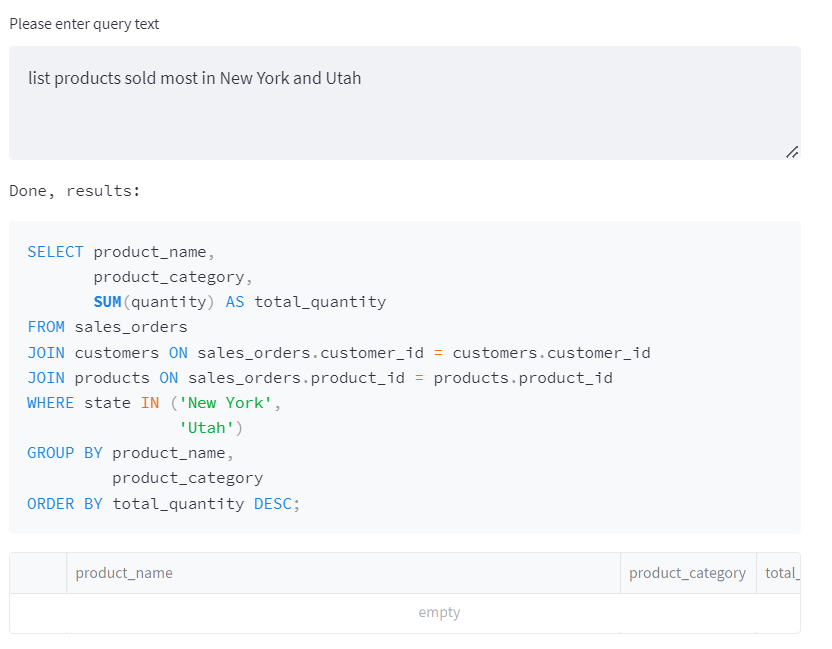
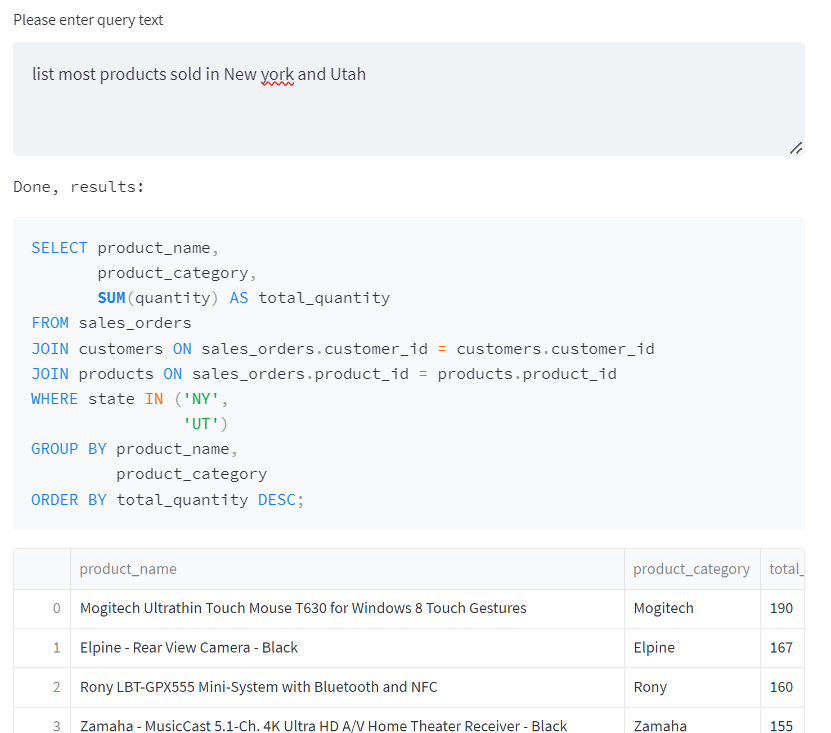
Updated and added new sample queries

diff --git a/README.md b/README.md
@@ -3,7 +3,7 @@
 ## Design
 
 ### API app
-Design of the App shown in Figure 1. At the core, there is an Azure durable orchestrator function which runs as set of activity functions using [function chaining pattern](https://learn.microsoft.com/en-us/azure/azure-functions/durable/durable-functions-overview?tabs=csharp-inproc#chaining) to translate the natural language query to SQL using OpenAI Codex model and execute it on Postgres SQL database tables and upload the results to Azure Blob Storage. It then returns the generated SQL and a SAS URL of the output file to the caller. 
+Design of the App shown in Figure 1. At the core, there is an Azure durable orchestrator function which runs as set of activity functions using [function chaining pattern](https://learn.microsoft.com/en-us/azure/azure-functions/durable/durable-functions-overview?tabs-csharp-inproc#chaining) to translate the natural language query to SQL using OpenAI Codex model and execute it on Postgres SQL database tables and upload the results to Azure Blob Storage. It then returns the generated SQL and a SAS URL of the output file to the caller. 
 
 ![Figure 1](https://github.com/bablulawrence/openai-sql/raw/main/docs/openai_sql.svg)
 
@@ -77,7 +77,7 @@ Go to azure portal, locate PostgreSQL server resource and make following changes
 ```
 3. Restore the backup file to the database
 ```sh
-    pg_restore -v --no-owner --host=az-postgres-server-<suffix>.postgres.database.azure.com --port=5432 --username=pgadmin123 --dbname=retail_org retail_org.dump
+    pg_restore -v --no-owner --host-az-postgres-server-<suffix>.postgres.database.azure.com --port-5432 --username-pgadmin123 --dbname-retail_org retail_org.dump
 ```
 
 ### Deploy azure function code
@@ -100,7 +100,7 @@ Go to the 'Actions' tab of the repo and exectue the Git hub action `Deploy code 
 You can query the database by directly invoking the orchastrator function `fn-drbl-orch-openai-sql` through azure function runtime interface.
 
 ```sh
-curl https://az-func-app-<suffix>.azurewebsites.net/runtime/webhooks/durabletask/orchestrators/fn-drbl-orch-openai-sql?code=<azure function master key>\
+curl https://az-func-app-<suffix>.azurewebsites.net/runtime/webhooks/durabletask/orchestrators/fn-drbl-orch-openai-sql?code-<azure function master key>\
 --header "Content-Type: application/json" \
 --data '{ "query": "list top selling products by state" }'
 ```
@@ -110,19 +110,19 @@ This will trigger the orchastrator function execution and return a response like
 ```json
 {
    "id":"f5d1849aae2442d8ad2ed7287ed9f282",
-   "statusQueryGetUri":"https://az-func-app-<suffix>.azurewebsites.net/runtime/webhooks/durabletask/instances/f5d1849aae2442d8ad2ed7287ed9f282?taskHub=azfuncapp<suffix>&connection=Storage&code=QBcKy6A2i2QlmtVsJ2KNAFHg70uZ9_nmKag8kP1ZTkr8AeFuJrUHLg==",
-   "sendEventPostUri":"https://az-func-app-<suffix>.azurewebsites.net/runtime/webhooks/durabletask/instances/f5d1849aae2442d8ad2ed7287ed9f282/raiseEvent/{eventName}?taskHub=azfuncapp<suffix>&connection=Storage&code=QBcKy6A2i2QlmtVsJ2KNAFHg70uZ9_nmKag8kP1ZTkr8AeFuJrUHLg==",
-   "terminatePostUri":"https://az-func-app-<suffix>.azurewebsites.net/runtime/webhooks/durabletask/instances/f5d1849aae2442d8ad2ed7287ed9f282/terminate?reason={text}&taskHub=azfuncapp<suffix>&connection=Storage&code=QBcKy6A2i2QlmtVsJ2KNAFHg70uZ9_nmKag8kP1ZTkr8AeFuJrUHLg==",
-   "purgeHistoryDeleteUri":"https://az-func-app-<suffix>.azurewebsites.net/runtime/webhooks/durabletask/instances/f5d1849aae2442d8ad2ed7287ed9f282?taskHub=azfuncapp<suffix>&connection=Storage&code=QBcKy6A2i2QlmtVsJ2KNAFHg70uZ9_nmKag8kP1ZTkr8AeFuJrUHLg==",
-   "restartPostUri":"https://az-func-app-<suffix>.azurewebsites.net/runtime/webhooks/durabletask/instances/f5d1849aae2442d8ad2ed7287ed9f282/restart?taskHub=azfuncapp<suffix>&connection=Storage&code=QBcKy6A2i2QlmtVsJ2KNAFHg70uZ9_nmKag8kP1ZTkr8AeFuJrUHLg==",
-   "suspendPostUri":"https://az-func-app-<suffix>.azurewebsites.net/runtime/webhooks/durabletask/instances/f5d1849aae2442d8ad2ed7287ed9f282/suspend?reason={text}&taskHub=azfuncapp<suffix>&connection=Storage&code=QBcKy6A2i2QlmtVsJ2KNAFHg70uZ9_nmKag8kP1ZTkr8AeFuJrUHLg==",
-   "resumePostUri":"https://az-func-app-<suffix>.azurewebsites.net/runtime/webhooks/durabletask/instances/f5d1849aae2442d8ad2ed7287ed9f282/resume?reason={text}&taskHub=azfuncapp<suffix>&connection=Storage&code=QBcKy6A2i2QlmtVsJ2KNAFHg70uZ9_nmKag8kP1ZTkr8AeFuJrUHLg=="
+   "statusQueryGetUri":"https://az-func-app-<suffix>.azurewebsites.net/runtime/webhooks/durabletask/instances/f5d1849aae2442d8ad2ed7287ed9f282?taskHub-azfuncapp<suffix>&connection-Storage&code-QBcKy6A2i2QlmtVsJ2KNAFHg70uZ9_nmKag8kP1ZTkr8AeFuJrUHLg--",
+   "sendEventPostUri":"https://az-func-app-<suffix>.azurewebsites.net/runtime/webhooks/durabletask/instances/f5d1849aae2442d8ad2ed7287ed9f282/raiseEvent/{eventName}?taskHub-azfuncapp<suffix>&connection-Storage&code-QBcKy6A2i2QlmtVsJ2KNAFHg70uZ9_nmKag8kP1ZTkr8AeFuJrUHLg--",
+   "terminatePostUri":"https://az-func-app-<suffix>.azurewebsites.net/runtime/webhooks/durabletask/instances/f5d1849aae2442d8ad2ed7287ed9f282/terminate?reason-{text}&taskHub-azfuncapp<suffix>&connection-Storage&code-QBcKy6A2i2QlmtVsJ2KNAFHg70uZ9_nmKag8kP1ZTkr8AeFuJrUHLg--",
+   "purgeHistoryDeleteUri":"https://az-func-app-<suffix>.azurewebsites.net/runtime/webhooks/durabletask/instances/f5d1849aae2442d8ad2ed7287ed9f282?taskHub-azfuncapp<suffix>&connection-Storage&code-QBcKy6A2i2QlmtVsJ2KNAFHg70uZ9_nmKag8kP1ZTkr8AeFuJrUHLg--",
+   "restartPostUri":"https://az-func-app-<suffix>.azurewebsites.net/runtime/webhooks/durabletask/instances/f5d1849aae2442d8ad2ed7287ed9f282/restart?taskHub-azfuncapp<suffix>&connection-Storage&code-QBcKy6A2i2QlmtVsJ2KNAFHg70uZ9_nmKag8kP1ZTkr8AeFuJrUHLg--",
+   "suspendPostUri":"https://az-func-app-<suffix>.azurewebsites.net/runtime/webhooks/durabletask/instances/f5d1849aae2442d8ad2ed7287ed9f282/suspend?reason-{text}&taskHub-azfuncapp<suffix>&connection-Storage&code-QBcKy6A2i2QlmtVsJ2KNAFHg70uZ9_nmKag8kP1ZTkr8AeFuJrUHLg--",
+   "resumePostUri":"https://az-func-app-<suffix>.azurewebsites.net/runtime/webhooks/durabletask/instances/f5d1849aae2442d8ad2ed7287ed9f282/resume?reason-{text}&taskHub-azfuncapp<suffix>&connection-Storage&code-QBcKy6A2i2QlmtVsJ2KNAFHg70uZ9_nmKag8kP1ZTkr8AeFuJrUHLg--"
 }
 ```
 You can use the URL provided in the property `statusQueryGetUri` to track the status of the execution. 
 
 ```sh
-curl 'https://az-func-app-<suffix>.azurewebsites.net/runtime/webhooks/durabletask/instances/f5d1849aae2442d8ad2ed7287ed9f282?taskHub=azfuncapp7yq7uiiw4bhwi&connection=Storage&code=QBcKy6A2i2QlmtVsJ2WNAFHg70uZ9_nmKag7kP1ZTkw8AzFuJrUHLg=='
+curl 'https://az-func-app-<suffix>.azurewebsites.net/runtime/webhooks/durabletask/instances/f5d1849aae2442d8ad2ed7287ed9f282?taskHub-azfuncapp7yq7uiiw4bhwi&connection-Storage&code-QBcKy6A2i2QlmtVsJ2WNAFHg70uZ9_nmKag7kP1ZTkw8AzFuJrUHLg--'
 ```
 response will be similar to: 
 
@@ -136,8 +136,8 @@ response will be similar to:
   },
   "customStatus": null,
   "output": {
-    "sqlQuery": "select    state,   product_name,   SUM(quantity) AS total_quantity FROM   sales_orders   INNER JOIN customers ON sales_orders.customer_id = customers.customer_id   INNER JOIN products ON sales_orders.product_id = products.product_id GROUP BY   state,   product_name ORDER BY   state,   total_quantity DESC LIMIT   10;",
-    "resultsFileUrl": "https://azdatastrg<suffix>.blob.core.windows.net/data/file_c5013082-e328-453e-8259-b13ad0ce96cd.csv?st=2023-02-20T08%3A44%3A30Z&se=2023-02-20T09%3A29%3A30Z&sp=r&sv=2021-08-06&sr=b&skoid=d95e5438-908f-47ee-b8f7-70a1a3c93b00&sktid=0b55e01a-573a-4060-b656-d1a3d5815791&skt=2023-02-20T07%3A59%3A30Z&ske=2023-02-20T09%3A59%3A30Z&sks=b&skv=2021-08-06&sig=g/D6cfkd18JDoTBgRtsMgrdhZwCpQ4HNm%2B7aFggLOYY%3D"
+    "sqlQuery": "select    state,   product_name,   SUM(quantity) AS total_quantity FROM   sales_orders   INNER JOIN customers ON sales_orders.customer_id - customers.customer_id   INNER JOIN products ON sales_orders.product_id - products.product_id GROUP BY   state,   product_name ORDER BY   state,   total_quantity DESC LIMIT   10;",
+    "resultsFileUrl": "https://azdatastrg<suffix>.blob.core.windows.net/data/file_c5013082-e328-453e-8259-b13ad0ce96cd.csv?st-2023-02-20T08%3A44%3A30Z&se-2023-02-20T09%3A29%3A30Z&sp-r&sv-2021-08-06&sr-b&skoid-d95e5438-908f-47ee-b8f7-70a1a3c93b00&sktid-0b55e01a-573a-4060-b656-d1a3d5815791&skt-2023-02-20T07%3A59%3A30Z&ske-2023-02-20T09%3A59%3A30Z&sks-b&skv-2021-08-06&sig-g/D6cfkd18JDoTBgRtsMgrdhZwCpQ4HNm%2B7aFggLOYY%3D"
   },
   "createdTime": "2023-02-20T08:59:15Z",
   "lastUpdatedTime": "2023-02-20T08:59:31Z"
@@ -162,10 +162,32 @@ This will lanch app screen. Type in the query text in the text area and press `C
 
 ## Sample query results
 
+### Query for most valuable customers
 ![High value customers](https://github.com/bablulawrence/openai-sql/raw/main/docs/sample_high_value_customers.png)
-------------------
+----------------------
 
+### Query for state code using full state names
+Note that in the database state codes use USPS code. To query these correctly using NL, insert a line in the prompt table. 
+
+```SQL
+INSERT INTO config.prompt (line, include) VALUES ('state column uses USPS code', true);
+```
 ![State code](https://github.com/bablulawrence/openai-sql/raw/main/docs/sample_state_code.png)
--------------------
+----------------------
 
+### Query for customer names
+`customer_name` column of `customers` table contains names of the form  "last name, first name middle name" in capital letters. It also contains a mixture of people(individual) names and company names and only people names follow the above format. To query correctly, insert the following line in the prompt table
+
+```SQL
+INSERT INTO config.prompt (line, include) VALUES
+('sample customer names are  "STEPHENS,  GERALDINE M",  "OUTTEN,  MIA G", "STUBBS SR,  LAWRENCE D",  "status ditigal", "m2 digital post", "genesis electronics recycling"', true)
+
+```
+![Customer name - person](https://github.com/bablulawrence/openai-sql/raw/main/docs/sample_customer_names_person.png)
+----------------------
+
+![Customer name - company](https://github.com/bablulawrence/openai-sql/raw/main/docs/sample_customer_names_company.png)
+----------------------
+
+### Query for date and time
 ![Date and time](https://github.com/bablulawrence/openai-sql/raw/main/docs/sample_data_and_time.png)
